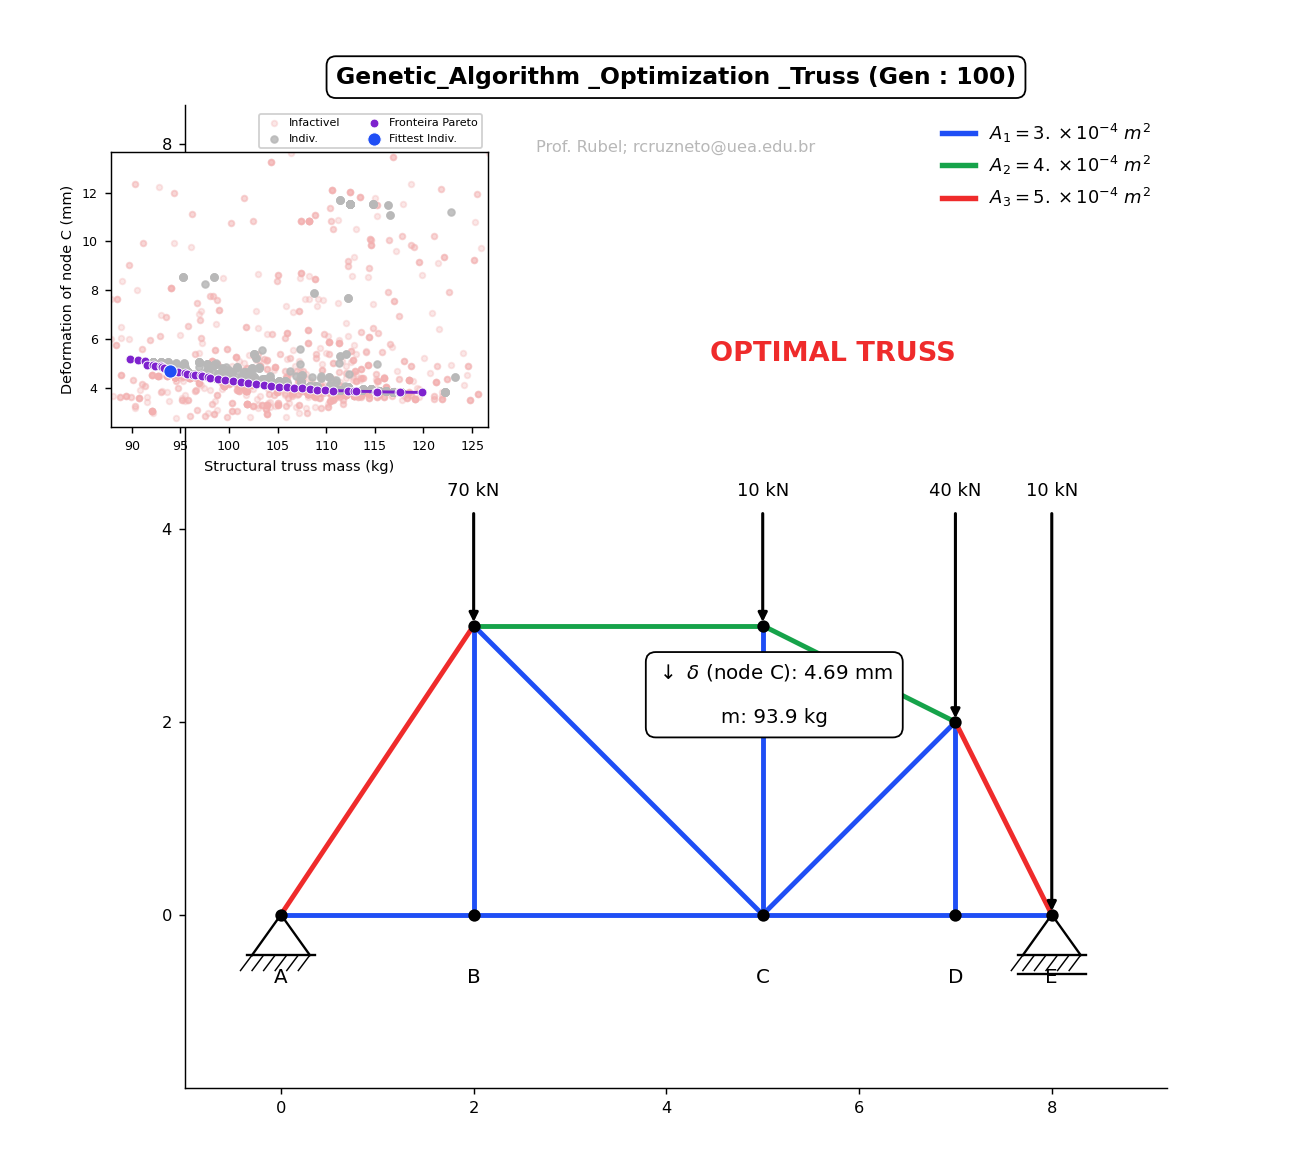
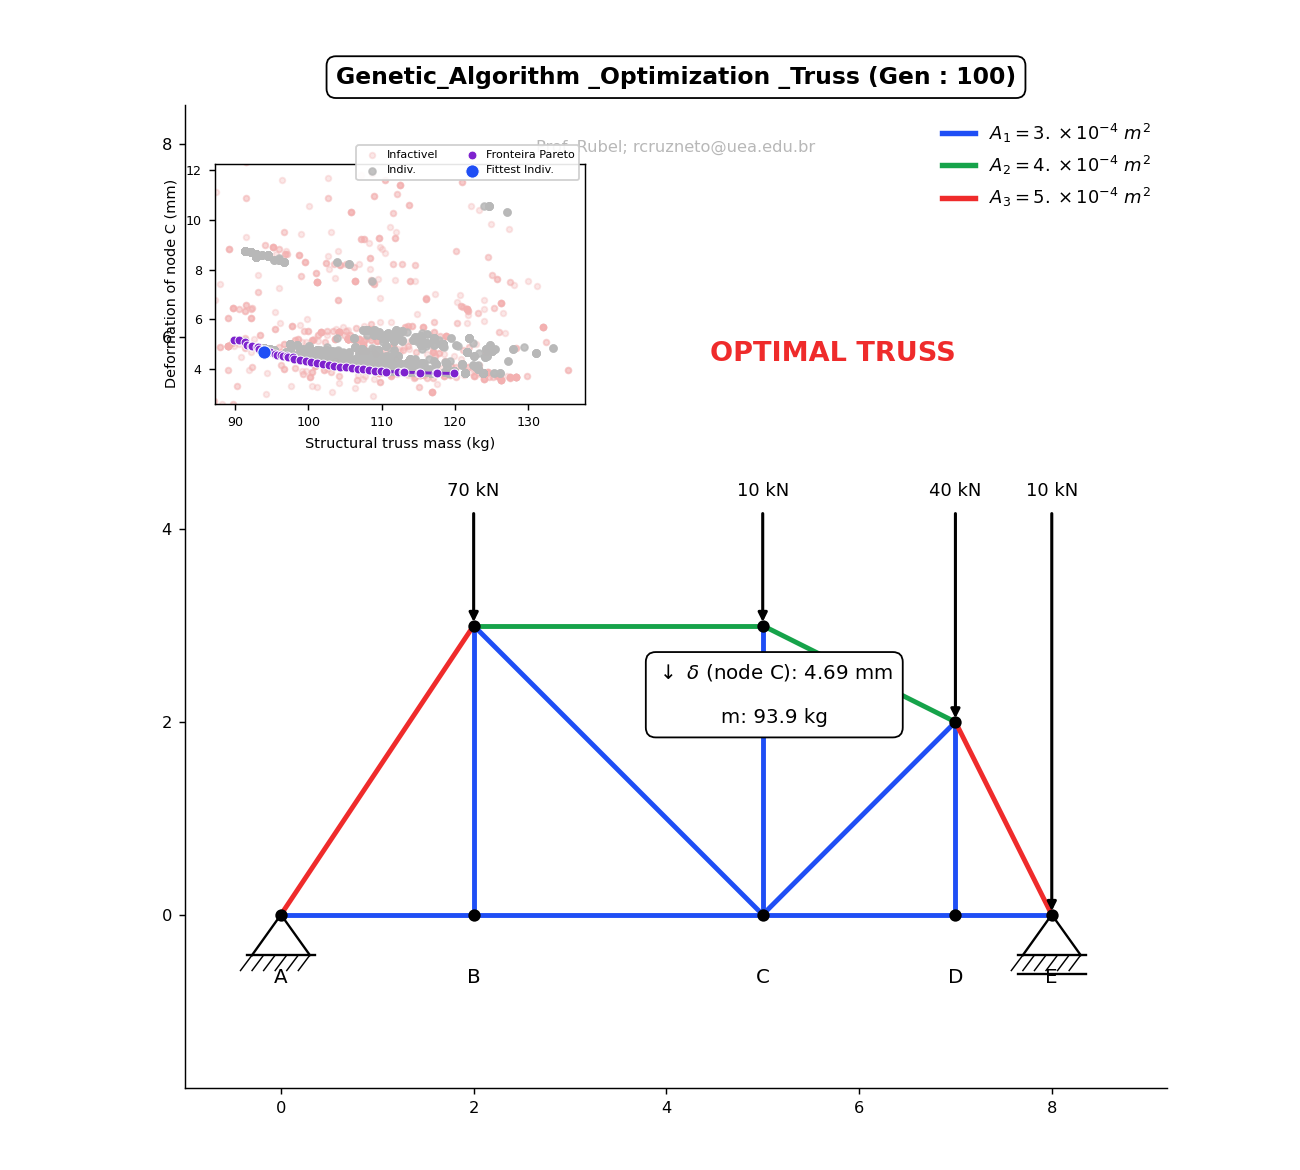
update gráfico

Changed region(s): [[0.0308, 0.0923, 0.4615, 0.4], [0.0308, 0.1538, 0.0923, 0.2154], [0.4308, 0.3077, 0.4615, 0.3385]]

diff --git a/app/visualizer.py b/app/visualizer.py
@@ -170,7 +170,7 @@ def _desenhar_quadro(ax, ax_p, cromossomo, nuvem, fronteira_plot, melhor_obj, ge
     ax_p.tick_params(colors=PRETO, labelsize=7)
     ax_p.legend(fontsize=6.2, loc="upper right", framealpha=0.9,
                 markerscale=1.0, handletextpad=0.3, ncol=2,
-                bbox_to_anchor=(1.0, 1.16))
+                bbox_to_anchor=(1.0, 1.10))
     for spine in ax_p.spines.values():
         spine.set_color(PRETO)
 
@@ -188,7 +188,7 @@ def animar_evolucao(
 ):
     fig = plt.figure(figsize=(10, 9), facecolor="white")
     ax = fig.add_axes([0.07, 0.07, 0.9, 0.84])
-    ax_p = fig.add_axes([0.085, 0.635, 0.29, 0.235])
+    ax_p = fig.add_axes([0.165, 0.655, 0.285, 0.205])
 
     def update(frame):
         nuvem_acumulada = []
@@ -230,7 +230,7 @@ def gerar_imagem_final(
 ):
     fig = plt.figure(figsize=(10, 9), facecolor="white")
     ax = fig.add_axes([0.07, 0.07, 0.9, 0.84])
-    ax_p = fig.add_axes([0.085, 0.635, 0.29, 0.235])
+    ax_p = fig.add_axes([0.165, 0.655, 0.285, 0.205])
 
     _desenhar_quadro(
         ax, ax_p, cromossomo, nuvem, fronteira_plot, melhor_obj,
